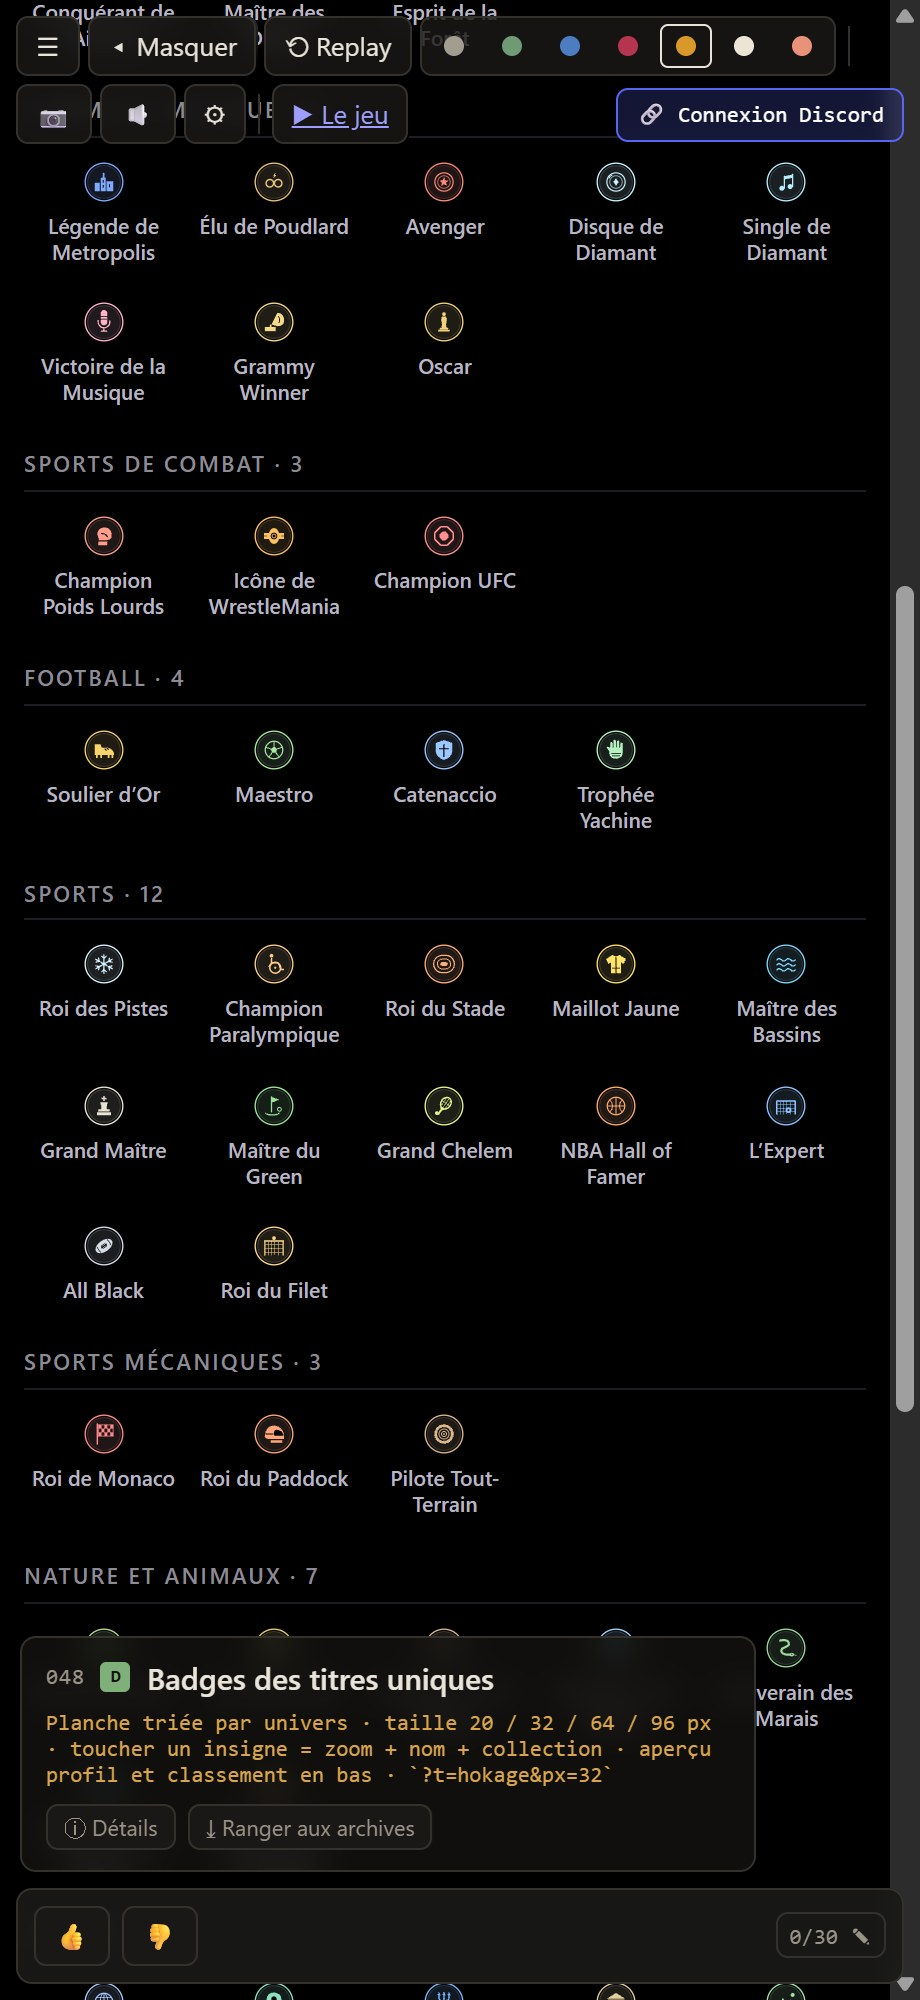
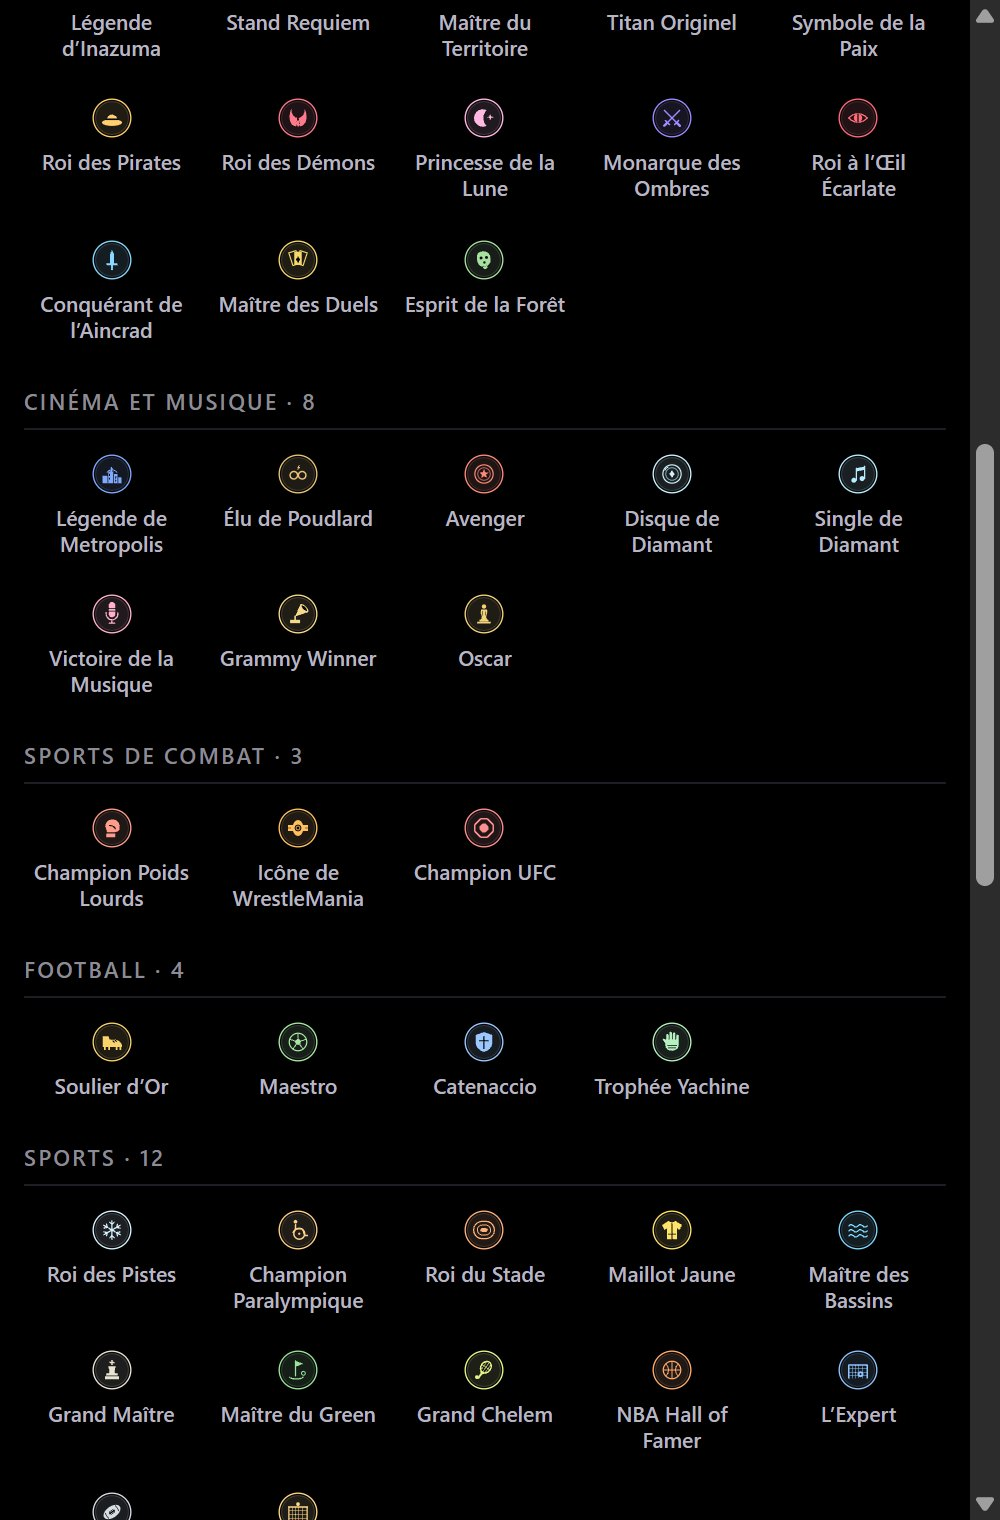
feat(badges): les badges du jeu en médaillons (gabarit du labo 048), 83 insignes des titres uniques repolis, section « Badges du jeu » au labo (patch v2.1.36)
Claude-Session: https://claude.ai/code/session_01VHcc2VtJ5Qtv191cfDaMbM

diff --git a/src/experiments/048-badges-titres-uniques/symboles.ts b/src/experiments/048-badges-titres-uniques/symboles.ts
@@ -3,27 +3,7 @@
  * ±24. Le médaillon (insigne()) les pose au centre dans la teinte du titre ; les « creux » sont en noir de médaillon.
  * Trait par défaut : 3, bouts ronds. Remplir = F / CF / EF ; trait = S / CS ; creux = K / CK / KS.
  */
-const NOIR = '#08080a';
-const F = (d: string) => `<path d="${d}" fill="currentColor" stroke="none"/>`;
-const S = (d: string, w = 3) => `<path d="${d}" stroke-width="${w}"/>`;
-const K = (d: string) => `<path d="${d}" fill="${NOIR}" stroke="none"/>`;
-const KS = (d: string, w = 2) => `<path d="${d}" stroke="${NOIR}" stroke-width="${w}"/>`;
-const CF = (x: number, y: number, r: number) => `<circle cx="${x}" cy="${y}" r="${r}" fill="currentColor" stroke="none"/>`;
-const CS = (x: number, y: number, r: number, w = 3) => `<circle cx="${x}" cy="${y}" r="${r}" stroke-width="${w}"/>`;
-const CK = (x: number, y: number, r: number) => `<circle cx="${x}" cy="${y}" r="${r}" fill="${NOIR}" stroke="none"/>`;
-const EF = (x: number, y: number, rx: number, ry: number) => `<ellipse cx="${x}" cy="${y}" rx="${rx}" ry="${ry}" fill="currentColor" stroke="none"/>`;
-const rot = (a: number, inner: string, cx = 0, cy = 0) => `<g transform="rotate(${a} ${cx} ${cy})">${inner}</g>`;
-const poly = (n: number, R: number, a0 = -90) =>
-  Array.from({ length: n }, (_, i) => {
-    const a = ((a0 + (360 / n) * i) * Math.PI) / 180;
-    return `${i ? 'L' : 'M'}${(R * Math.cos(a)).toFixed(1)},${(R * Math.sin(a)).toFixed(1)}`;
-  }).join(' ') + 'Z';
-const star = (n: number, R: number, r: number, a0 = -90) =>
-  Array.from({ length: n * 2 }, (_, i) => {
-    const a = ((a0 + (180 / n) * i) * Math.PI) / 180;
-    const rr = i % 2 ? r : R;
-    return `${i ? 'L' : 'M'}${(rr * Math.cos(a)).toFixed(1)},${(rr * Math.sin(a)).toFixed(1)}`;
-  }).join(' ') + 'Z';
+import { F, S, K, KS, CF, CS, CK, EF, rot, poly, star } from '../../game/badgeArt';
 const SIX = 'M5,-12 C-4,-10 -7,-2 -7,5 C-7,10 -4,13 0,13 C4,13 7,10 7,6 C7,2 4,-1 0,-1 C-3,-1 -6,1 -7,4';
 
 export const SYMBOLES: Record<string, string> = {
@@ -41,16 +21,23 @@ export const SYMBOLES: Record<string, string> = {
   // --- anime et manga
   leaf: F('M0,-23 C16,-17 22,4 2,22 C-20,8 -18,-14 0,-23Z') + KS('M0,-14 C-2,-4 -1,8 2,18', 2.2) + KS('M-1,-3 L-9,-9 M0,5 L8,-2', 1.8),
   clover: CF(-8, -8, 9) + CF(8, -8, 9) + CF(-8, 8, 9) + CF(8, 8, 9) + KS('M-17,0 H17 M0,-17 V17', 2.4) + S('M6,14 Q12,20 10,24', 3),
-  katana: S('M21,-21 L-6,6', 8) + CF(-8, 8, 7) + S('M-9,9 L-20,20', 7.5) + CK(-8, 8, 2.4),
+  katana:
+    F('M23,-23 C13,-19 1,-8 -7,5 L-3,9 C7,1 18,-10 23,-23Z') +
+    rot(-45, EF(-6, 8, 3.6, 8.5), -6, 8) +
+    S('M-9,11 L-19,21', 6) + KS('M-13,13 L-11,15 M-16,16 L-14,18', 1.6) +
+    S('M-22,-4 A24,24 0 0 1 -4,-22', 2.2) + S('M22,4 A24,24 0 0 1 4,22', 2.2),
   flame: F('M0,-24 C4,-12 18,-8 18,6 C18,16 10,23 0,23 C-10,23 -18,16 -17,6 C-16,-2 -10,-6 -8,-14 C-4,-10 -2,-8 -2,-4 C2,-10 2,-18 0,-24Z') + K('M0,22 C-6,22 -9,17 -8,12 C-7,8 -3,6 -1,2 C3,7 8,9 8,15 C8,19 5,22 0,22Z'),
   magnifier: CS(-4, -4, 13, 4) + S('M6,6 L20,20', 6) + S('M-12,-8 A9,9 0 0 1 -6,-13', 2),
-  spikes: F('M-4,24 C-14,10 -8,2 -14,-6 L-4,-4 L-10,-18 L2,-10 L2,-24 L10,-8 L18,-14 L14,2 L20,6 C14,10 12,16 8,24Z') + K('M-2,22 C-6,14 -2,10 0,4 C4,10 6,14 4,22Z'),
+  spikes:
+    F('M-12,3 L-19,-5 L-11,-8 L-15,-20 L-6,-13 L-2,-25 L3,-14 L10,-22 L10,-10 L19,-14 L12,3Z') +
+    F('M-10,1 H10 V10 C10,20 -10,20 -10,10Z') + KS('M-7,6 L-2,8.5 M7,6 L2,8.5', 2.2) +
+    S('M-23,12 L-19,8 M23,12 L19,8 M-24,-6 L-21,-4 M24,-6 L21,-4', 2.6),
   magiccircle: CS(0, 0, 21, 2.5) + S('M0,-17 L15,9 L-15,9Z M0,17 L-15,-9 L15,-9Z', 2.5) + CF(0, 0, 3),
   oni:
     F('M-17,-8 C-17,-18 -9,-20 0,-20 C9,-20 17,-18 17,-8 L15,10 C13,18 6,23 0,23 C-6,23 -13,18 -15,10Z M-15,-14 L-22,-24 L-8,-18Z M15,-14 L22,-24 L8,-18Z') +
     K('M-12,-6 L-3,-3 L-4,2 L-12,0Z M12,-6 L3,-3 L4,2 L12,0Z M-6,12 L-4,18 L-2,12Z M2,12 L4,18 L6,12Z') +
     KS('M-9,12 H9', 2.4),
-  volley: CS(0, 5, 17, 3) + S('M0,5 V-12 M0,5 L-15,13 M0,5 L15,13', 2.6) + S('M-14,-4 C-6,-5 -2,-1 0,5 M14,-4 C6,-5 2,-1 0,5', 2) + S('M-8,-19 L0,-25 L8,-19', 2.6),
+  volley: CS(0, 6, 16, 3) + S('M-3,-9 C0,-2 8,3 16,4 M-15,0 C-6,1 -1,6 -3,22 M12,-6 C6,0 4,8 10,19', 2.4) + S('M-7,-17 L0,-23 L7,-17', 2.8),
   spiral: S('M0,0 C0,-3 4,-3 4,0 C4,6 -6,6 -6,-2 C-6,-12 10,-12 10,0 C10,16 -14,16 -14,-4 C-14,-22 18,-22 18,0', 3.2),
   bolt: F('M6,-24 L-14,3 H-2 L-6,24 L14,-4 H2Z'),
   arrow: F('M0,-24 L14,2 L0,-4 L-14,2Z') + S('M0,-4 V22', 4) + S('M-8,24 L0,14 L8,24', 3),
@@ -67,14 +54,19 @@ export const SYMBOLES: Record<string, string> = {
   kodama:
     rot(-10, F('M-12,-18 C-4,-24 14,-22 16,-8 C18,6 12,16 0,16 C-14,16 -18,4 -16,-8 C-16,-12 -14,-16 -12,-18Z M-5,15 C-8,24 8,24 5,15Z') + CK(-6, -6, 3.4) + CK(7, -5, 3.4) + CK(0, 6, 2.8)),
   // --- cinéma et musique
-  skyline: F('M-22,22 V2 H-10 V22Z M-8,22 V-10 H4 V22Z M-3,-10 V-22 H1 V-10Z M6,22 V-2 H22 V22Z') + KS('M-2,-4 V2 M-2,8 V14 M13,6 V12', 2.4),
+  skyline:
+    S('M-12,-4 A15,15 0 0 1 12,-4', 2.4) + CF(0, -12, 2.2) +
+    F('M-23,22 V4 H-11 V22Z M-9,22 V-6 H3 V22Z M-3,-6 V-17 H0 V-6Z M5,22 V0 H13 V22Z M15,22 V8 H23 V22Z') +
+    KS('M-6,0 V4 M-6,9 V13 M9,6 V10 M9,14 V18', 2.2),
   glasses: CS(-10, 3, 9, 3.6) + CS(10, 3, 9, 3.6) + S('M-1,1 H1', 3) + F('M4,-23 L-3,-14 H1 L-2,-8 L6,-17 H2Z'),
   starshield: CS(0, 0, 22, 3) + CS(0, 0, 15, 1.8) + F(star(5, 12, 5)),
   vinyl: CS(0, 0, 22, 3) + CS(0, 0, 15, 1.6) + F('M0,-9 L6.5,0 L0,9 L-6.5,0Z') + S('M-17,-9 A19,19 0 0 1 -9,-17', 2),
   note: CF(-10, 15, 6) + CF(10, 11, 6) + S('M-4,15 V-14 M16,11 V-18', 3.4) + F('M-4,-14 L16,-18 V-10 L-4,-6Z'),
   mic: F('M-8,-21 a8,8 0 0 1 16,0 V0 a8,8 0 0 1 -16,0Z') + KS('M-8,-13 H8 M-8,-7 H8', 1.6) + S('M-14,-4 V0 A14,14 0 0 0 14,0 V-4', 3) + S('M0,14 V22 M-7,22 H7', 3),
-  gramophone: F('M-6,6 L8,-22 Q26,-22 24,0 Q22,10 8,10Z') + KS('M10,-14 Q16,-8 12,2', 2.2) + F('M-22,12 H4 V22 H-22Z') + S('M-8,8 V12', 4),
-  statuette: CF(0, -19, 4.5) + F('M-5,-13 H5 C8,-8 6,0 5,6 L6,14 H-6 L-5,6 C-6,0 -8,-8 -5,-13Z M-10,14 H10 V18 H-10Z M-14,18.5 H14 V23 H-14Z'),
+  gramophone:
+    F('M5.8,-23.2 L24.2,-4.8 L-7,6Z') + rot(45, EF(15, -14, 13, 5.6), 15, -14) + rot(45, K(`M6,-14 a9,3 0 1 0 18,0 a9,3 0 1 0 -18,0Z`), 15, -14) +
+    S('M-7,6 V13', 4) + F('M-19,14 H5 V22 H-19Z'),
+  statuette: CF(0, -18, 5.2) + F('M-7,-11 H7 C10,-4 6,2 5,7 L8,14 H-8 L-5,7 C-6,2 -10,-4 -7,-11Z M-11,14 H11 V18 H-11Z M-16,18.5 H16 V23 H-16Z') + KS('M-3,-6 V3 M3,-6 V3', 1.6),
   // --- sports de combat
   glove: F('M-16,-4 C-16,-18 -4,-22 6,-20 C16,-18 20,-8 18,2 C17,8 12,10 6,10 H-12Z M-14,13 H8 V22 H-14Z') + KS('M-6,-6 C0,-6 6,-4 8,2', 2.6),
   belt: F('M-24,-7 H-10 V7 H-24Z M10,-7 H24 V7 H10Z') + EF(0, 0, 13, 19) + CK(0, 0, 8) + CS(0, 0, 4.5, 2.2) + KS('M-17,0 H-24 M17,0 H24', 1),
@@ -104,10 +96,13 @@ export const SYMBOLES: Record<string, string> = {
   helmet: F('M-22,6 C-22,-12 -10,-22 4,-20 C16,-18 24,-8 24,4 V12 H-8 C-14,12 -22,12 -22,6Z M-8,15 H20 V21 H-8Z') + K('M6,-10 C14,-10 20,-6 22,0 V4 H2 C-2,4 -2,-10 6,-10Z') + KS('M-19,0 H-4', 2.6),
   tire: `<circle r="20" stroke-width="7" stroke-dasharray="5 4.2"/>` + CS(0, 0, 12, 2.2) + CS(0, 0, 6, 2.4) + CF(0, 0, 2.2),
   // --- nature et animaux
-  dino: F('M-14,22 C-14,12 -10,8 0,8 C10,8 14,12 14,22Z') + EF(-15, -2, 4, 7) + EF(-5, -11, 4, 7.5) + EF(5, -11, 4, 7.5) + EF(15, -2, 4, 7),
+  dino:
+    F('M-23,-2 C-23,-16 -9,-21 3,-19 C15,-17 24,-10 24,-2 V3 H-23Z') +
+    F('M-23,8 H21 C21,13 19,17 14,17 H-17 C-21,17 -23,13 -23,8Z') +
+    F('M-1,3 L2,9.5 L5,3Z M8,3 L11,9.5 L14,3Z M17,3 L19.5,8.5 L22,3Z') + CK(5, -9, 3.2) + CK(19, -8, 1.5),
   beetle: EF(0, 6, 12, 16) + CF(0, -14, 6) + KS('M0,-10 V22', 2) + S('M-12,0 L-22,-6 M-12,8 L-22,12 M-11,15 L-20,22 M12,0 L22,-6 M12,8 L22,12 M11,15 L20,22 M-3,-19 L-8,-24 M3,-19 L8,-24', 2.8),
   antlers: S('M-5,10 C-10,2 -16,-6 -15,-22 M-12,-3 L-22,-7 M-14,-13 L-8,-18', 3.4) + S('M5,10 C10,2 16,-6 15,-22 M12,-3 L22,-7 M14,-13 L8,-18', 3.4) + F('M-6,9 H6 L4,22 H-4Z'),
-  bird: F('M0,2 C-8,-14 -18,-14 -26,-8 C-20,-2 -14,4 -12,10 C-6,6 -3,8 0,14 C3,8 6,6 12,10 C14,4 20,-2 26,-8 C18,-14 8,-14 0,2Z M-3,10 L0,24 L3,10Z'),
+  bird: S('M-24,-8 C-14,-20 -5,-14 0,2 C5,-14 14,-20 24,-8', 4.6) + F('M-4.5,0 C-4.5,-6 4.5,-6 4.5,0 L0,23Z') + F('M-9,10 L0,18 L9,10 L0,22Z'),
   snake: S('M-14,-18 C8,-24 14,-6 -2,-2 C-18,2 -14,18 10,16', 5.4) + EF(14, 16, 5.5, 4.2) + S('M19,16 L24,18', 1.8) + CK(14, 15, 1.2),
   fish: F('M-22,0 C-12,-14 8,-14 14,0 C8,14 -12,14 -22,0Z M12,0 L24,-12 V12Z') + CK(-13, -2, 2.4) + KS('M-4,-10 C-1,-4 -1,4 -4,10', 2),
   burr: Array.from({ length: 12 }, (_, k) => rot(k * 30, S('M0,-12 V-23', 3.2))).join('') + CF(0, 0, 14) + CK(0, 2, 6.5) + EF(0, 3, 3.6, 4.4),

diff --git a/src/game/badgeArt.ts b/src/game/badgeArt.ts
@@ -1,0 +1,71 @@
+/**
+ * MÉDAILLONS DES BADGES (27/11, labo 048 validé par Hugo et Tom) — UNE source du gabarit : disque noir, double filet,
+ * teinte en accent, symbole au centre. Utilisé par `badgeIcon()` (profil, atelier, succès) et par le labo 048 (83 titres
+ * uniques). Repère des symboles : centré en (0,0), tient dans ±24 ; trait 3, bouts ronds ; lisible à 20 px.
+ * Remplir = F / CF / EF ; trait = S / CS ; creux (noir du médaillon) = K / CK / KS. Aucun logo officiel.
+ */
+export const NOIR = '#08080a';
+export const F = (d: string) => `<path d="${d}" fill="currentColor" stroke="none"/>`;
+export const S = (d: string, w = 3) => `<path d="${d}" stroke-width="${w}"/>`;
+export const K = (d: string) => `<path d="${d}" fill="${NOIR}" stroke="none"/>`;
+export const KS = (d: string, w = 2) => `<path d="${d}" stroke="${NOIR}" stroke-width="${w}"/>`;
+export const CF = (x: number, y: number, r: number) => `<circle cx="${x}" cy="${y}" r="${r}" fill="currentColor" stroke="none"/>`;
+export const CS = (x: number, y: number, r: number, w = 3) => `<circle cx="${x}" cy="${y}" r="${r}" stroke-width="${w}"/>`;
+export const CK = (x: number, y: number, r: number) => `<circle cx="${x}" cy="${y}" r="${r}" fill="${NOIR}" stroke="none"/>`;
+export const EF = (x: number, y: number, rx: number, ry: number) => `<ellipse cx="${x}" cy="${y}" rx="${rx}" ry="${ry}" fill="currentColor" stroke="none"/>`;
+export const rot = (a: number, inner: string, cx = 0, cy = 0) => `<g transform="rotate(${a} ${cx} ${cy})">${inner}</g>`;
+export const poly = (n: number, R: number, a0 = -90) =>
+  Array.from({ length: n }, (_, i) => {
+    const a = ((a0 + (360 / n) * i) * Math.PI) / 180;
+    return `${i ? 'L' : 'M'}${(R * Math.cos(a)).toFixed(1)},${(R * Math.sin(a)).toFixed(1)}`;
+  }).join(' ') + 'Z';
+export const star = (n: number, R: number, r: number, a0 = -90) =>
+  Array.from({ length: n * 2 }, (_, i) => {
+    const a = ((a0 + (180 / n) * i) * Math.PI) / 180;
+    const rr = i % 2 ? r : R;
+    return `${i ? 'L' : 'M'}${(rr * Math.cos(a)).toFixed(1)},${(rr * Math.sin(a)).toFixed(1)}`;
+  }).join(' ') + 'Z';
+
+const FLAME = 'M0,-24 C4,-12 18,-8 18,6 C18,16 10,23 0,23 C-10,23 -18,16 -17,6 C-16,-2 -10,-6 -8,-14 C-4,-10 -2,-8 -2,-4 C2,-10 2,-18 0,-24Z';
+
+/** Le médaillon : `symbole` = SVG du symbole (repère ±24), `teinte` = couleur d'accent. `px` : taille en pixels (sinon 100 % du parent). */
+export function medaillon(symbole: string, teinte: string, px?: number, cls = 'bd'): string {
+  const dim = px ? ` width="${px}" height="${px}"` : '';
+  return (
+    `<svg class="${cls}" viewBox="-50 -50 100 100"${dim} aria-hidden="true" style="color:${teinte}">` +
+    `<circle r="47" fill="${NOIR}" stroke="currentColor" stroke-width="3.4"/>` +
+    `<circle r="41" fill="currentColor" fill-opacity=".1" stroke="currentColor" stroke-opacity=".5" stroke-width="1.1"/>` +
+    `<g transform="scale(1.04)" fill="none" stroke="currentColor" stroke-width="3" stroke-linecap="round" stroke-linejoin="round">${symbole}</g>` +
+    `</svg>`
+  );
+}
+
+/** Les 10 badges du jeu (src/core/cosmetics.ts BADGES) : symbole + teinte, loin des teintes de rareté (src/core/rarity.ts). */
+export const BADGE_ART: Record<string, { sym: string; teinte: string }> = {
+  // 10 boosters : un sachet serti, étoile au centre
+  first: { teinte: '#6fd1c1', sym: F('M-13,-21 H13 V21 H-13Z') + KS('M-13,-13 H13 M-13,14 H13', 2) + K(star(5, 8, 3.4, -90)) },
+  // 100 boosters : deux sachets, un devant l'autre
+  p100: { teinte: '#a3b5ff', sym: S('M-8,-21 H16 V14', 3) + F('M-16,-14 H8 V21 H-16Z') + KS('M-16,-7 H8 M-16,15 H8', 2) + CK(-4, 4, 3.2) },
+  // 1 000 boosters : la coupe
+  p1000: { teinte: '#f2a0c4', sym: F('M-11,-20 H11 V-6 C11,6 -11,6 -11,-6Z') + S('M-11,-16 H-18 C-18,-6 -15,-3 -11,-4 M11,-16 H18 C18,-6 15,-3 11,-4', 2.8) + S('M0,4 V13', 4) + F('M-10,15 H10 V21 H-10Z') },
+  // album complet : le livre ouvert
+  full: { teinte: '#8fdc95', sym: S('M0,-14 C-6,-19 -14,-19 -21,-16 V15 C-14,12 -6,12 0,17 C6,12 14,12 21,15 V-16 C14,-19 6,-19 0,-14Z M0,-14 V17', 3) + S('M-14,-8 H-7 M-14,-2 H-7 M7,-8 H14 M7,-2 H14', 2) },
+  // 5 × 6★ : l'étoile pleine
+  mythic: { teinte: '#e3d4ff', sym: F(star(5, 24, 10.5, -90)) + CK(0, 1, 3.6) },
+  // Bébou secret : le cadenas
+  secret: { teinte: '#c77dff', sym: S('M-9,-3 V-11 A9,9 0 0 1 9,-11 V-3', 3.4) + F('M-14,-3 H14 V21 H-14Z') + CK(0, 8, 3.4) + KS('M0,9 V14', 3) },
+  // échangeur : deux flèches croisées
+  trade: { teinte: '#5fcfe8', sym: S('M-20,-9 H18 M10,-17 L18,-9 L10,-1', 3.4) + S('M20,9 H-18 M-10,1 L-18,9 L-10,17', 3.4) },
+  // contrat signé : la feuille, le sceau
+  contract: { teinte: '#e6dd6a', sym: F('M-14,-23 H5 L14,-14 V23 H-14Z') + KS('M5,-23 V-14 H14', 2) + KS('M-7,-8 H5 M-7,-1 H3', 2.6) + CK(3, 13, 5) + CF(3, 13, 2) },
+  // 7 jours : la flamme sur le calendrier
+  streak: { teinte: '#ff8a5c', sym: S('M-20,-12 H20 V21 H-20Z', 3) + S('M-11,-20 V-8 M11,-20 V-8', 3) + `<g transform="translate(0,6) scale(.45)">${F(FLAME)}</g>` },
+  // 5 000 cartes : une étagère de livres
+  half: { teinte: '#d6b38a', sym: S('M-18,-17 H-8 V17 H-18Z', 3) + S('M-5,-22 H5 V17 H-5Z', 3) + rot(14, S('M9,-17 H19 V17 H9Z', 3), 14, 17) + S('M-23,22 H23', 3.4) },
+};
+
+/** Médaillon d'un badge du jeu (repli : médaillon neutre vide). */
+export const badgeMedal = (id: string, px = 20): string => {
+  const a = BADGE_ART[id];
+  return medaillon(a?.sym ?? CS(0, 0, 14, 3), a?.teinte ?? '#cfcdd6', px);
+};

diff --git a/src/experiments/048-badges-titres-uniques/index.ts b/src/experiments/048-badges-titres-uniques/index.ts
@@ -1,6 +1,8 @@
 import type { Experiment, LabContext } from '../../core/Experiment';
 import { TITRES, type TitreUnique } from './data';
 import { SYMBOLES } from './symboles';
+import { BADGE_ART, medaillon } from '../../game/badgeArt';
+import { BADGES } from '../../core/cosmetics';
 
 /**
  * 048 — BADGES DES TITRES UNIQUES (27/11, demande de Hugo validée par Tom) : un insigne dessiné par titre unique (83),
@@ -13,14 +15,14 @@ import { SYMBOLES } from './symboles';
 
 /** Le même gabarit pour tous : seul le symbole et la teinte changent. */
 export function insigne(t: TitreUnique): string {
-  return (
-    `<svg class="b48" viewBox="-50 -50 100 100" aria-hidden="true" style="color:${t.teinte}">` +
-    `<circle r="47" fill="#08080a" stroke="currentColor" stroke-width="3.4"/>` +
-    `<circle r="41" fill="currentColor" fill-opacity=".1" stroke="currentColor" stroke-opacity=".5" stroke-width="1.1"/>` +
-    `<g transform="scale(1.04)" fill="none" stroke="currentColor" stroke-width="3" stroke-linecap="round" stroke-linejoin="round">${SYMBOLES[t.sym] ?? ''}</g>` +
-    `</svg>`
-  );
+  return medaillon(SYMBOLES[t.sym] ?? '', t.teinte, undefined, 'b48');
 }
+
+/** Les badges du jeu (BADGES de src/core/cosmetics.ts), en médaillon : même gabarit, via src/game/badgeArt.ts. */
+const insigneJeu = (id: string): string => {
+  const a = BADGE_ART[id];
+  return medaillon(a.sym, a.teinte, undefined, 'b48');
+};
 
 const collection = (setId: string) => {
   const s = setId.replace(/^(grp|sub):/, '').replace(/^jv-/, '').replace(/-/g, ' ');
@@ -40,6 +42,9 @@ const CSS = `
 .b48-c .b48 { flex: none; }
 .b48-c em { font-style: normal; font-size: 10.5px; line-height: 1.25; color: #b9b6c2; }
 .b48-c:active { background: #111; }
+.b48-pills { display: flex; flex-wrap: wrap; gap: 6px; margin-top: 14px; }
+.b48-pill { display: inline-flex; align-items: center; gap: 6px; padding: 2px 9px 2px 3px; border: 1px solid #2c2b33; border-radius: 4px; }
+.b48-pill i { font-style: normal; font: 500 10px/1 ui-monospace, monospace; letter-spacing: .04em; color: #b9b6c2; }
 .b48-sit { margin-top: 26px; border: 1px solid #1e1d24; border-radius: 6px; padding: 12px; background: #050506; max-width: 460px; }
 .b48-prof { display: flex; align-items: center; gap: 10px; padding-bottom: 10px; border-bottom: 1px solid #1e1d24; margin-bottom: 6px; }
 .b48-av { width: 38px; height: 38px; border-radius: 50%; border: 1px solid #2c2b33; background: #141418; flex: none; }
@@ -74,6 +79,13 @@ export default function create(): Experiment {
       ([20, 32, 64, 96] as const).map((p) => `<button data-px="${p}" class="${p === state.px ? 'on' : ''}">${p} px</button>`).join('') +
       `</div>`;
     const col = Math.max(state.px, 56) + 18;
+    const jeu =
+      `<div class="b48-h">Badges du jeu · ${BADGES.length}</div><div class="b48-grid" style="grid-template-columns:repeat(auto-fill,minmax(${col}px,1fr))">` +
+      BADGES.map((b) => `<div class="b48-c"><span style="width:${state.px}px;height:${state.px}px;display:block">${insigneJeu(b.id)}</span><em>${b.label}</em></div>`).join('') +
+      `</div>` +
+      `<div class="b48-sit b48-pills">` +
+      BADGES.map((b) => `<span class="b48-pill"><span style="width:20px;height:20px;display:block">${insigneJeu(b.id)}</span><i>${b.label}</i></span>`).join('') +
+      `</div>`;
     const planche = UNIVERS.map((u) => {
       const items = TITRES.filter((t) => t.univers === u);
       return (
@@ -90,7 +102,7 @@ export default function create(): Experiment {
       `<div class="b48-prof"><div class="b48-av"></div><div><b>Hugo</b><span class="b48-tit"><span style="width:24px;height:24px;display:block">${insigne(s)}</span>${s.nom}</span></div></div>` +
       rows.map((t, i) => `<div class="b48-row"><i>${i + 1}</i><span class="n"><span style="width:20px;height:20px;flex:none;display:block">${insigne(t)}</span>${['Hugo', 'Tom', 'Léa', 'Max', 'Inès'][i]} <small>${t.nom}</small></span><span class="s">${(4210 - i * 380).toLocaleString('fr-FR')}</span></div>`).join('') +
       `</div>`;
-    root.innerHTML = bar + planche + sit;
+    root.innerHTML = bar + jeu + planche + sit;
   };
 
   const zoom = (t: TitreUnique) => {

diff --git a/src/game/cosmeticArt.ts b/src/game/cosmeticArt.ts
@@ -13,6 +13,7 @@ import './cosmetiques.css';
 import type { Cosmetic, Matter } from '../core/cosmetics';
 import { titleStyleOf } from '../core/cosmetics';
 import { esc } from './ui';
+import { badgeMedal } from './badgeArt';
 
 // ───────────────────────── icônes au trait (grille 24, trait 1,6) ─────────────────────────
 const ICONS = {
@@ -33,24 +34,13 @@ const ICONS = {
   accent: 'M12 3s6 6.2 6 10.5a6 6 0 0 1-12 0C6 9.2 12 3 12 3z',
   vitrine: 'M4 8h5v10H4zM9.5 6h5v12h-5zM15 8h5v10h-5z',
   badge: 'M12 3l7 3v6c0 4.2-2.9 7.4-7 9c-4.1-1.6-7-4.8-7-9V6z',
-  // badges (mêmes identifiants qu'avant, src/core/cosmetics.ts BADGES)
-  'b-first': 'M7 4h10v16H7zM10 8h4M10 12h4',
-  'b-p100': 'M6 5h9v14H6zM9 3h9v14',
-  'b-p1000': 'M8 4h8v5a4 4 0 0 1-8 0zM8 6H5a3 3 0 0 0 3 3M16 6h3a3 3 0 0 1-3 3M12 13v4M8.5 20h7',
-  'b-full': 'M5 5h6a2 2 0 0 1 2 2v12a2 2 0 0 0-2-2H5zM19 5h-4a2 2 0 0 0-2 2M19 5v12h-4a2 2 0 0 0-2 2',
-  'b-mythic': 'M12 3l2.6 5.6 6.1.7-4.5 4.2 1.2 6-5.4-3-5.4 3 1.2-6L3.3 9.3l6.1-.7z',
-  'b-secret': 'M12 4v16M4 12h16M6.3 6.3l11.4 11.4M17.7 6.3L6.3 17.7',
-  'b-trade': 'M7 8h11l-3-3M17 16H6l3 3',
-  'b-contract': 'M6 4h9l3 3v13H6zM9 12h6M9 16h4M14 4v4h4',
-  'b-streak': 'M12 3c1 3.5 5 5.5 5 10a5 5 0 0 1-10 0c0-2 1-3.2 2-4.2c.3 1.6 1 2.4 2 2.7C10.5 9 11 5.5 12 3z',
-  'b-half': 'M4 6h4v13H4zM9 4h4v15H9zM14.5 7l3.8-1 3 12.5-3.8 1z',
 } as const;
 export type IconName = keyof typeof ICONS;
 /** Icône au trait (prend la couleur du texte). */
 export const icon = (name: IconName, size = 16) =>
   `<svg class="ic" viewBox="0 0 24 24" width="${size}" height="${size}" aria-hidden="true"><path d="${ICONS[name]}"/></svg>`;
-/** Icône d'un badge (repli : l'écusson). */
-export const badgeIcon = (id: string, size = 13) => icon((`b-${id}` in ICONS ? `b-${id}` : 'badge') as IconName, size);
+/** Badge : le médaillon (src/game/badgeArt.ts, même gabarit que le labo 048). 20 px par défaut ; repli : médaillon neutre. */
+export const badgeIcon = (id: string, size = 20) => badgeMedal(id, size);
 
 // ───────────────────────────────── tracés des cadres ─────────────────────────────────
 const TAU = Math.PI * 2;

diff --git a/src/game/cosmetiques.css b/src/game/cosmetiques.css
@@ -68,8 +68,11 @@ span.pf-title.ts.ts-light { --t-col: var(--tc); padding: 0; border-width: 0; bac
 @keyframes ac-drift { from { translate: -14px 0; } to { translate: 14px 0; } }
 @keyframes ac-flick { 0%, 40%, 100% { opacity: 1; } 43% { opacity: 0.3; } 46% { opacity: 1; } 70% { opacity: 0.85; } 72% { opacity: 0.35; } 75% { opacity: 1; } }
 
-/* ── badges : une icône au trait à la place du glyphe ── */
-.pf-badge .ic { color: var(--ink-2); }
+/* ── badges : le médaillon (src/game/badgeArt.ts), 20 px, aligné au centre du libellé ── */
+.bd { display: inline-block; flex: none; width: 20px; height: 20px; vertical-align: -0.3em; }
+span.pf-badge { padding: 2px 9px 2px 3px; gap: 6px; line-height: 1; }
+span.pf-badge > .bd { margin: 0; }
+.sc-cos .bd { display: inline-block; width: 16px; height: 16px; vertical-align: -0.28em; }
 
 /* ── page Profil : la photo et son cadre dessiné (remplace l'anneau en `box-shadow` et le calque `.pf-fx`) ── */
 .pf-ava-wrap .pf-ring.cf { display: block; width: 92px; height: 92px; margin: 14px 26px 14px 22px; }

diff --git a/src/game/updates.data.ts b/src/game/updates.data.ts
@@ -61,6 +61,12 @@ export const UPDATES: UpdateMonth[] = [
         ],
       },
       {
+        date: '27 nov.', title: 'Des badges en médaillons', tag: 'amélioré',
+        points: [
+          '🏅 Les badges du profil deviennent des médaillons dessinés (booster, coupe, livre, étoile, cadenas, flamme…), chacun avec sa teinte.',
+        ],
+      },
+      {
         date: '27 nov.', title: 'Plus pratique partout : collection, marché, forge, amis', tag: 'amélioré',
         points: [
           '📚 Collection : une rangée « Presque finis » en tête des albums, avec ceux où il ne te manque que 1 à 3 cartes (« −2 » sur la pochette).',

diff --git a/src/game/updates.en.ts b/src/game/updates.en.ts
@@ -26,6 +26,12 @@ export const UPDATES_EN: UpdateMonth[] = [
         ],
       },
       {
+        date: '27 Nov', title: 'Badges become medallions', tag: 'amélioré',
+        points: [
+          '🏅 Profile badges are now drawn medallions (booster, cup, book, star, padlock, flame…), each with its own tint.',
+        ],
+      },
+      {
         date: '27 Nov', title: 'Handier everywhere: collection, market, forge, friends', tag: 'amélioré',
         points: [
           '📚 Collection: an “Almost done” row at the top of Albums, with the albums where you’re only 1 to 3 cards short (“−2” on the cover).',
